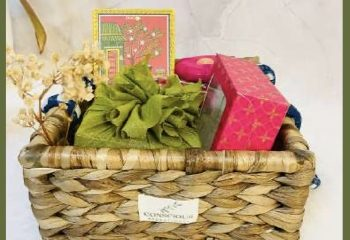
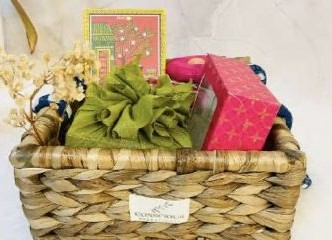
Restructure as Conscious Curations category with Diwali sub-category, co-brand lockup and redirect

diff --git a/src/app/(store)/conscious-curations/page.tsx b/src/app/(store)/conscious-curations/page.tsx
@@ -1,0 +1,71 @@
+import type { Metadata } from 'next';
+import Link from 'next/link';
+import CoBrand from '@/components/store/CoBrand';
+import { PageHero } from '@/components/store/blocks';
+import { T } from '@/components/store/StoreProvider';
+import { CURATED_COLLECTIONS } from '@/lib/hamper';
+import '@/styles/pages.css';
+import '@/styles/hamper.css';
+
+export const metadata: Metadata = {
+  title: 'Conscious Curations',
+  description: 'Handwoven by women artisans, made from upcycled and locally sourced materials, with homemade treats from the Chefat65 kitchen. Curated gifts by Conscious Curations, with Maison Botanique.',
+  alternates: { canonical: '/conscious-curations' },
+};
+
+const PILLARS = [
+  { en: 'Handwoven', ar: 'منسوج يدوياً', textEn: 'Baskets and trays woven by women artisan groups across India.', textAr: 'سلال وصواني تنسجها مجموعات حرفيات في أنحاء الهند.' },
+  { en: 'Upcycled', ar: 'معاد تدويره', textEn: 'Made from upcycled textile and plastic waste.', textAr: 'مصنوعة من أقمشة وبلاستيك معاد تدويره.' },
+  { en: 'Locally sourced', ar: 'من مصادر محلية', textEn: 'Sustainable, locally sourced pieces that support underprivileged communities.', textAr: 'قطع مستدامة من مصادر محلية تدعم المجتمعات المحتاجة.' },
+  { en: 'Chefat65 kitchen', ar: 'مطبخ Chefat65', textEn: 'Homemade sweets and snacks from the family kitchen behind Conscious Curations.', textAr: 'حلويات ووجبات خفيفة منزلية من مطبخ العائلة وراء Conscious Curations.' },
+];
+
+export default function ConsciousCurationsPage() {
+  return (
+    <div className="hamper cc section section--top">
+      <PageHero
+        eyebrow={{ en: 'Curated gifts · a Maison Botanique collaboration', ar: 'هدايا منسّقة · بالتعاون مع ميزون بوتانيك' }}
+        title={{ en: 'Consciously chosen by you. Curated by us.', ar: 'تختارها أنت بوعي، وننسّقها نحن.' }}
+        intro={{
+          en: 'Conscious Curations inspires people to choose more sustainable, locally sourced gifts, made by communities that deserve the work.',
+          ar: 'تشجّع Conscious Curations على اختيار هدايا أكثر استدامة ومن مصادر محلية، تصنعها مجتمعات تستحق هذا العمل.',
+        }}
+        image="/hamper/artisan.jpg">
+        <CoBrand />
+      </PageHero>
+
+      <section className="cc-pillars" aria-label="Conscious Curations">
+        <ul>
+          {PILLARS.map((pillar) => (
+            <li key={pillar.en}>
+              <h2><T en={pillar.en} ar={pillar.ar} /></h2>
+              <p><T en={pillar.textEn} ar={pillar.textAr} /></p>
+            </li>
+          ))}
+        </ul>
+      </section>
+
+      <section className="cc-collections" aria-labelledby="cc-collections-title">
+        <div className="hamper-step__head">
+          <h2 id="cc-collections-title"><T en="Collections" ar="المجموعات" /></h2>
+        </div>
+        <ul>
+          {CURATED_COLLECTIONS.map((collection) => (
+            <li key={collection.slug}>
+              <Link href={`/conscious-curations/${collection.slug}`} className="cc-card">
+                <span className="cc-card__img"><img src={collection.photo} alt="" loading="lazy" width="332" height="240" /></span>
+                <span className="cc-card__body">
+                  <span className="eyebrow"><T en={collection.en} ar={collection.ar} /></span>
+                  <strong><T en={collection.titleEn} ar={collection.titleAr} /></strong>
+                  <span className="cc-card__intro"><T en={collection.introEn} ar={collection.introAr} /></span>
+                  <span className="cc-card__go"><T en="Start building" ar="ابدأ التصميم" /> →</span>
+                </span>
+              </Link>
+            </li>
+          ))}
+        </ul>
+        <p className="cc-note"><T en="Orders are confirmed with Conscious Curations on WhatsApp. A 50% advance books the order." ar="تُؤكَّد الطلبات مع Conscious Curations عبر واتساب. دفعة مقدمة 50٪ لتأكيد الطلب." /></p>
+      </section>
+    </div>
+  );
+}

diff --git a/src/styles/hamper.css b/src/styles/hamper.css
@@ -61,3 +61,42 @@
 @media (max-width: 520px) { .hamper-grid { grid-template-columns: repeat(2, minmax(0, 1fr)); gap: 14px 10px; } .hamper-card__name { font-size: 19px; } }
 [dir='rtl'] .hamper-card__name, [dir='rtl'] .hamper-sub h3, [dir='rtl'] .hamper-step__head h2 { letter-spacing: 0; }
 @media (prefers-reduced-motion: reduce) { .hamper-card, .hamper-card__pick { transition: none; } }
+
+/* Conscious Curations category page and co-brand lockup. */
+.cobrand { display: flex; flex-wrap: wrap; align-items: center; gap: 14px 22px; margin: 28px 0 0; padding: 18px 0 0; border-top: 1px solid var(--line); }
+.cobrand img { display: block; width: 132px; height: auto; }
+.cobrand__with { color: var(--muted); font: 500 12px/1.3 var(--font-body); letter-spacing: .18em; text-transform: uppercase; }
+[dir='rtl'] .cobrand__with { letter-spacing: 0; }
+.cc-crumb { margin: 18px 0 0; font-size: var(--fs-small); }
+.cc-crumb a { color: var(--muted); text-decoration: underline; text-underline-offset: 3px; }
+.cc-pillars { margin-bottom: clamp(48px, 6vw, 88px); }
+.cc-pillars ul { display: grid; grid-template-columns: repeat(4, minmax(0, 1fr)); gap: 0; margin: 0; padding: 0; list-style: none; border-top: 1px solid var(--line-strong); }
+.cc-pillars li { padding: 22px 22px 0 0; }
+.cc-pillars li + li { padding-inline-start: 22px; border-inline-start: 1px solid var(--line); }
+.cc-pillars h2 { font-size: 28px; }
+.cc-pillars p { margin: 10px 0 0; color: var(--muted); font-size: var(--fs-body); line-height: 1.5; }
+.cc-collections ul { margin: 0; padding: 0; list-style: none; display: grid; gap: 20px; }
+.cc-card { display: grid; grid-template-columns: minmax(0, 360px) minmax(0, 1fr); gap: clamp(20px, 3vw, 40px); align-items: center; padding: 14px; border: 1px solid var(--line); color: var(--ink); text-decoration: none; transition: border-color .2s; }
+.cc-card:hover { border-color: var(--ink); }
+.cc-card:focus-visible { outline: 3px solid var(--ink); outline-offset: 3px; }
+.cc-card__img { display: block; aspect-ratio: 3 / 2; overflow: hidden; background: var(--paper-deep); }
+.cc-card__img img { width: 100%; height: 100%; object-fit: cover; }
+.cc-card__body { display: grid; gap: 10px; }
+.cc-card__body strong { font: 500 clamp(30px, 3.4vw, 46px)/1 var(--font-display); letter-spacing: -.03em; }
+.cc-card__intro { color: var(--muted); font-size: var(--fs-body); line-height: 1.5; max-width: 46ch; }
+.cc-card__go { font: 600 12px/1 var(--font-body); letter-spacing: .14em; text-transform: uppercase; }
+[dir='rtl'] .cc-card__go { letter-spacing: 0; }
+.cc-note { margin: 18px 0 0; color: var(--muted); font-size: var(--fs-small); }
+@media (max-width: 900px) {
+  .cc-pillars ul { grid-template-columns: repeat(2, minmax(0, 1fr)); }
+  .cc-pillars li { padding-bottom: 24px; }
+  .cc-pillars li:nth-child(odd) { padding-inline-start: 0; border-inline-start: 0; }
+}
+@media (max-width: 640px) {
+  .cc-card { grid-template-columns: minmax(0, 1fr); }
+}
+@media (max-width: 420px) {
+  .cc-pillars ul { grid-template-columns: minmax(0, 1fr); }
+  .cc-pillars li, .cc-pillars li + li { padding-inline: 0; border-inline-start: 0; border-bottom: 1px solid var(--line); }
+}
+@media (max-width: 520px) { .cobrand__with { flex-basis: 100%; } }

diff --git a/src/components/store/HamperBuilder.tsx b/src/components/store/HamperBuilder.tsx
@@ -2,6 +2,8 @@
 
 import { useEffect, useState } from 'react';
 import { HAMPER_SECTIONS, PICK_MAX, PICK_MIN, hamperCodeString, hamperProblems, hamperTotal, hamperWhatsappLink, type HamperItem, type HamperSection, type HamperSelection } from '@/lib/hamper';
+import Link from 'next/link';
+import CoBrand from './CoBrand';
 import { PageHero } from './blocks';
 import Money from './Money';
 import { useStore } from './StoreProvider';
@@ -101,7 +103,10 @@ export default function HamperBuilder() {
         intro={{
           en: 'Pick a handwoven basket, fill it with handcrafted pieces and add a festive treat. Curated by Conscious Curations and hand-packed with dried flowers and their brand ribbon.',
           ar: 'اختر سلة منسوجة يدوياً، واملأها بقطع مصنوعة يدوياً، وأضف حلوى احتفالية. من تنسيق Conscious Curations وتُغلَّف يدوياً بالزهور المجففة وشريط العلامة.',
-        }} />
+        }}>
+        <CoBrand />
+        <p className="cc-crumb"><Link href="/conscious-curations">← {t('Conscious Curations', 'Conscious Curations')}</Link></p>
+      </PageHero>
 
       <div className="hamper-layout">
         <div className="hamper-steps">

diff --git a/src/app/sitemap.ts b/src/app/sitemap.ts
@@ -7,7 +7,7 @@ export const revalidate = 300;
 
 export default async function sitemap(): Promise<MetadataRoute.Sitemap> {
   const { products, collections } = await getCatalog();
-  const pages = ['', '/shop', '/collections', '/residences', '/services', '/diwali-hampers', '/atelier', '/contact', '/delivery', '/faq', '/privacy', '/terms', '/refund-policy', '/guides/flower-care-air-conditioning', '/guides/flowers-for-a-dinner-host', '/guides/congratulations-flowers-dubai'];
+  const pages = ['', '/shop', '/collections', '/residences', '/services', '/conscious-curations', '/conscious-curations/diwali', '/atelier', '/contact', '/delivery', '/faq', '/privacy', '/terms', '/refund-policy', '/guides/flower-care-air-conditioning', '/guides/flowers-for-a-dinner-host', '/guides/congratulations-flowers-dubai'];
   return [
     ...['/journal', ...JOURNAL.map(({ slug }) => `/journal/${slug}`), ...OCCASION_CONTENT.map(({ slug }) => `/occasions/${slug}`)]
       .flatMap((path) => [path, `/ar${path}`].map((localized) => ({ url: `${SITE_URL}${localized}`, alternates: { languages: { 'en-AE': `${SITE_URL}${path}`, 'ar-AE': `${SITE_URL}/ar${path}`, 'x-default': `${SITE_URL}${path}` } } }))),

diff --git a/src/components/store/ShopShelf.tsx b/src/components/store/ShopShelf.tsx
@@ -53,9 +53,9 @@ export default function ShopShelf() {
     <nav className="shelf" aria-label={t('Shop by category', 'تسوّق حسب الفئة')} data-track-section="home_shelf" data-track-location="home_shelf">
       <ul>
         <li>
-          <Link href="/diwali-hampers">
+          <Link href="/conscious-curations">
             <span className="shelf__img"><img src="/hamper/hamper-hero.jpg" alt="" loading="lazy" width="96" height="96" /></span>
-            <span>{t('Diwali hampers', 'هدايا ديوالي')}</span>
+            <span>{t('Conscious Curations', 'Conscious Curations')}</span>
           </Link>
         </li>
         {chips.map((chip) => (

diff --git a/src/lib/hamper.ts b/src/lib/hamper.ts
@@ -59,3 +59,7 @@ export function hamperMessage(selection: HamperSelection) {
 }
 
 export const hamperWhatsappLink = (selection: HamperSelection) => `https://wa.me/${data.whatsapp}?text=${encodeURIComponent(hamperMessage(selection))}`;
+
+/** Sub-categories of the Conscious Curations page. Add an entry here and a route under /conscious-curations/<slug>. */
+export interface CuratedCollection { slug: string; live: boolean; en: string; ar: string; titleEn: string; titleAr: string; introEn: string; introAr: string; photo: string }
+export const CURATED_COLLECTIONS = data.collections as CuratedCollection[];

diff --git a/src/components/store/SiteHeader.tsx b/src/components/store/SiteHeader.tsx
@@ -151,7 +151,7 @@ export default function SiteHeader() {
               </div>
             </div>
             {direct.filter((group) => group.id !== 'roses').map(groupLink)}
-            <Link href="/diwali-hampers" onClick={closeMenus}>{t('Diwali hampers', 'هدايا ديوالي')}</Link>
+            <Link href="/conscious-curations" onClick={closeMenus}>{t('Conscious Curations', 'Conscious Curations')}</Link>
           </div>
           <div className="site-nav__secondary">
             <Link href="/services">{t('Events & gifting', 'المناسبات والإهداء')}</Link>

diff --git a/next.config.ts b/next.config.ts
@@ -42,6 +42,7 @@ const nextConfig: NextConfig = {
   },
   async redirects() {
     return [
+      { source: '/diwali-hampers', destination: '/conscious-curations/diwali', permanent: true },
       { source: '/jvc', destination: '/?offer=open', permanent: true },
       ...allRenames.map(({ oldHandle, handle }) => ({ source: `/products/${oldHandle}`, destination: productDestination(handle), permanent: true })),
       ...[...retiredProducts].map((handle) => ({ source: `/products/${handle}`, destination: RETIRED_DESTINATION, permanent: true })),

diff --git a/src/app/(store)/conscious-curations/diwali/page.tsx b/src/app/(store)/conscious-curations/diwali/page.tsx
@@ -4,9 +4,9 @@ import '@/styles/pages.css';
 import '@/styles/hamper.css';
 
 export const metadata: Metadata = {
-  title: 'Diwali hampers by Conscious Curations',
+  title: 'Diwali hampers · Conscious Curations',
   description: 'Build your own Diwali hamper: a handwoven basket, three to five handcrafted pieces and a festive treat, curated by Conscious Curations.',
-  alternates: { canonical: '/diwali-hampers' },
+  alternates: { canonical: '/conscious-curations/diwali' },
 };
 
 export default function DiwaliHampersPage() {

diff --git a/src/components/store/CoBrand.tsx b/src/components/store/CoBrand.tsx
@@ -1,0 +1,13 @@
+import { Logo } from './SiteHeader';
+import { T } from './StoreProvider';
+
+/** Maison wordmark beside the partner's logo, for pages made in collaboration with Conscious Curations. */
+export default function CoBrand() {
+  return (
+    <p className="cobrand">
+      <Logo />
+      <span className="cobrand__with"><T en="in collaboration with" ar="بالتعاون مع" /></span>
+      <img src="/hamper/cc-logo.png" alt="Conscious Curations" width="160" height="79" />
+    </p>
+  );
+}
